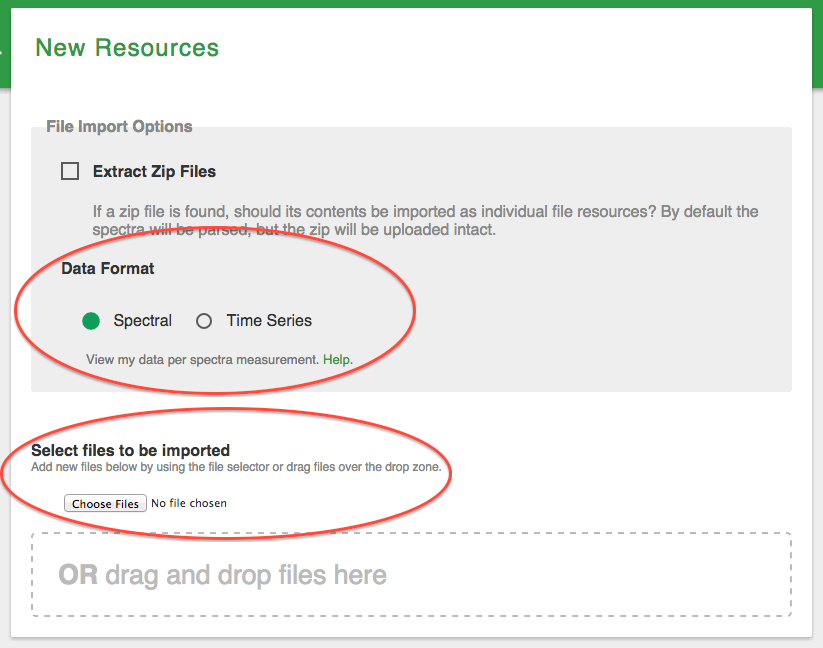
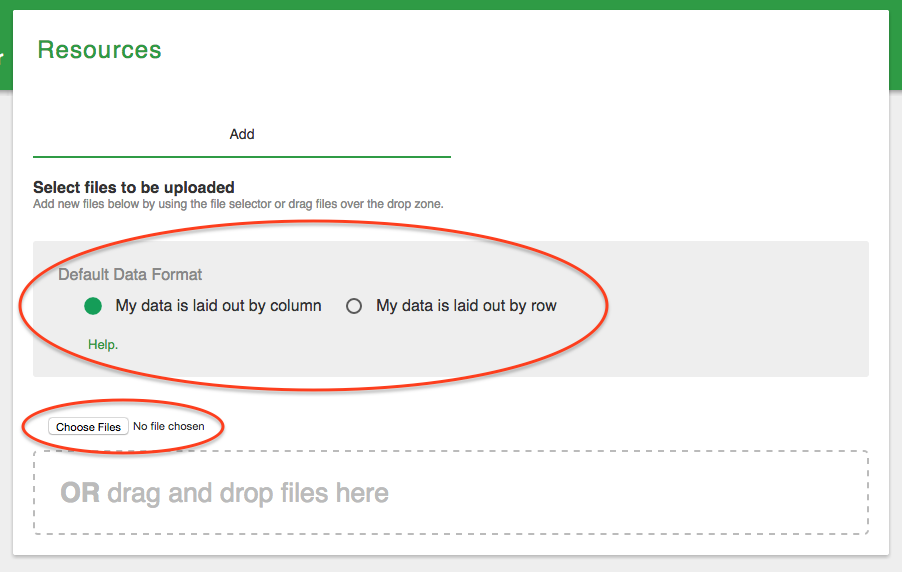
updates to tutorial

diff --git a/tutorial/walkthrough/index.html b/tutorial/walkthrough/index.html
@@ -43,8 +43,8 @@
 					<h1>EcoSIS Tutorial</h1>
 					<h3>Step by step tutorial for adding datasets to EcoSIS</h3>
 					<p>
-						<small>Presented by <a href="http://forestandwildlifeecology.wisc.edu/townsend-phil-current-faculty-profile">Phil Townsend</a> / <a href="mailto:ptownsend@wisc.edu">ptownsend@wisc.edu</a></small><br />
-						<small>Created by <a href="http://cstars.metro.ucdavis.edu/people/technical-staff/justin-merz/">Justin Merz</a> / <a href="mailto:jrmerz@ucdavis.edu">jrmerz@ucdavis.edu</a></small>
+						<small>PI: <a href="http://forestandwildlifeecology.wisc.edu/townsend-phil-current-faculty-profile">Phil Townsend</a> / <a href="mailto:ptownsend@wisc.edu">ptownsend@wisc.edu</a></small><br />
+						<small>Developer: <a href="http://cstars.metro.ucdavis.edu/people/technical-staff/justin-merz/">Justin Merz</a> / <a href="mailto:jrmerz@ucdavis.edu">jrmerz@ucdavis.edu</a></small>
 					</p>
 				</section>
 
@@ -65,7 +65,8 @@
 					<section>
 						<h2>Create EcoSIS Account</h2>
 						<p>
-							First your will need to create an account at <a href="http://data.ecospectra.org" target="_blank">data.ecospectra.org</a>
+							First your will need to create an account at <a href="http://data.ecospectra.org" target="_blank">data.ecospectra.org</a> <br />
+							Or try the sandbox located at <a href="http://dev-data.ecospectra.org" target="_blank">dev-data.ecospectra.org</a>
 						</p>
 					</section>
 					<section>
@@ -121,7 +122,7 @@
 					<section>
 						<h2>Basic Information</h2>
 						<p>In the dataset editor fill out the preliminary data for your dataset including name, description, license (if any) and visibility flag.  Make sure your description gives people a brief overview of what this dataset is.</p>
-						<p>Then click 'New Resources' on the left hand navigation.  The menu item will show once you have given the dataset a valid title.</p>
+						<p>Then click  the 'Create Dataset' button at the bottom.  Once the dataset is created, click the 'add resources' link or the 'Resources' left hand menu item.</p>
 					</section>
 					<section>
 						<img src="ss/addDataset.png">
@@ -131,15 +132,15 @@
 				<section>
 					<section>
 						<h2>Data Formats</h2>
-						<p>EcoSIS utilizes user-defined schema and recommends names for certain metadata attributes. EcoSIS uses the format of <b>your</b> files, with some guidance, to figure out your dataset's scheme.</p>
+						<p>EcoSIS utilizes user-defined schema and recommends names for certain metadata attributes. EcoSIS uses the format of <b style="color:orange">your</b> files, with some guidance, to figure out your dataset's scheme.</p>
 						
 					</section>
 					<section>
 						<p>EcoSIS expects data to be uploaded with each measurement either:</p>
 
 						<ul>
-							<li><b>In a single row -</b> where the first column is your attribute name and the proceeding columns are the data values, including spectra</b></li>
-							<li><b>In a single column -</b> where the first row is your attribute name and the proceeding rows are data values, including</b></li>
+							<li><b style="color:orange">In a single row -</b> where the first column is your attribute name and the proceeding columns are the data values, including spectra</b></li>
+							<li><b style="color:orange">In a single column -</b> where the first row is your attribute name and the proceeding rows are data values, including</b></li>
 						</ul>
 
 						<table style="width:100%; text-align:center">
@@ -158,18 +159,19 @@
 						<p style="font-size:70%;margin-top:20px;color:#888">Note: wavelengths are still considered to be an attribute name.</p>
 					</section>
 					<section>
-						<p>You can add <b>additional</b>/<b>optional</b> formatting to your files to specify type (data vs metadata) if you are providing both in the same file.  You can also specify global metadata for a file.</p>
+						<p>You can add <b style="color:orange">additional/optional</b> formatting to your files to specify attribute type (data vs metadata), units and global metadata for a file.</p>
 
 						<ul style="font-size:70%;margin-top:20px">
-							<li>Adding the row break between the two bottom tables helps define your schema by telling the importer your attribute types.  The middle table will be set as type 'metadata' while the bottom table as type 'data'.  If you don't use the break you will be given a chance to manually define attributes after the file has been added.</li>
-							<li>At the top of a file columns A and B can be used to define global metadata for the file with Column A being the attribute name and Column B being the attribute value.</li>
+							<li>At the top of a file columns A and B can be used to define global metadata for the file with Column A being the attribute name and Column B being the attribute value.  This metadata will be applied to every spectra in the file</li>
+							<li>After the attribute name, you can add units in ().  Ex: Steam Biomas (tha)</li>
+							<li>Adding the '__d' postfix to your attribute name will tell the parser the attribute should be considered as data.  Ex: NDVI__d</li>
 						</ul>
 
 						<img src="ss/formatSpecial.png">
 					</section>
 
 					<section>
-						<p>Finally, regardless of table format, only assign numeric attribute names to wavelengths. Data following any attribute name that is numeric will always be considered spectral data.</p>
+						<p>Finally, regardless of any formatting, only assign numeric attribute names to wavelengths. Data following any attribute name that is numeric will always be considered spectral data.</p>
 
 						<img src="ss/formatWavelength.png">
 					</section>
@@ -178,7 +180,7 @@
 				<section>
 					<section>
 						<h2>Add Resource Files</h2>
-						<p>Select which format your files will be provided in.  Spectral (by column) where your wavelengths are provided in Column A or Time Series (by row) where your attribute names are provided in row 1.  Then select the files you wish to upload by clicking the file selector next to 'Select File' or by dragging and dropping the files over the 'Drop files here' box.</p>
+						<p>Select which format your files will be provided in (By Column or By Row).  Then select the files you wish to upload by clicking the file selector next to 'Select File' or by dragging and dropping the files over the 'Drop files here' box.</p>
 						<p>Sample spectra and metadata files can be downloaded by clicking <a href="/demo_data.xlsx">here</a> and <a href="/demo_metadata.xlsx">here</a> (recommended).
 					</section>
 					<section>
@@ -189,7 +191,7 @@
 				<section>
 					<section>
 						<h2>Configure Datasheets</h2>
-						<p>After the files have finished parsing you will be redirected to the 'Configure Datasheets' tab in the 'New Resources' page.  Here you can see how the importer interpreted your files.</p>
+						<p>After the files have finished uploaded and being parsed by the EcoSIS you will be redirected to the 'Current' tab in the 'Resources' page.  Here you can see how the importer interpreted your files.  Click 'Details' to see a brief overview.</p>
 						<p style="margin-top:20px">It's very important to look over your files and make sure everything is correct. Pay special attention to joinable metadata files as you will always need to mark these files and define how the metadata is to be joined with the rest of your data.</p>
 					</section>
 					<section>

diff --git a/tutorial/index.html b/tutorial/index.html
@@ -1,12 +1,12 @@
 <html>
 <head>
-	<title>Ecosis Tutorial</title>
+	<title>EcoSIS Tutorials</title>
 	<link rel="stylesheet" href="//maxcdn.bootstrapcdn.com/bootstrap/3.2.0/css/bootstrap.min.css">
 	<link rel="stylesheet" href="//maxcdn.bootstrapcdn.com/bootstrap/3.2.0/css/bootstrap-theme.min.css">
 </head>
 <body style="padding:20px">
 
-<h1 class="page-header">Ecosis Tutorial</h1>
+<h1 class="page-header">EcoSIS Tutorials</h1>
 
 <h2>Screencast</h2>
 <div class="well" style="text-align:center">
@@ -22,6 +22,15 @@
 <div class="well" style="text-align:center">
 	<a href="demo_data.xlsx">Demo Spectra</a><br />
 	<a href="demo_metadata.xlsx">Demo Metadata</a>
+</div>
+
+<h2>Servers</h2>
+<div class="well" style="text-align:center">
+    <a href="http://ecospectra.org" target="_blank">EcoSIS Spectral Library</a><br />
+    <a href="http://data.ecospectra.org" target="_blank">EcoSIS Data Management</a><br />
+    <h4>Sandbox (Dev Servers)</h4>
+    <a href="http://dev-data.ecospectra.org" target="_blank">EcoSIS Data Sandbox</a><br />
+    <a href="http://dev-search.ecospectra.org" target="_blank">EcoSIS Library Sandbox</a><br />
 </div>
 
 </body>

diff --git a/spectra-importer/Gruntfile.js b/spectra-importer/Gruntfile.js
@@ -123,6 +123,13 @@ module.exports = function (grunt) {
                     stderr: true
                 },
                 command: 'node server'
+            },
+            'tutorial-server' : {
+                options: {
+                    stdout: true,
+                    stderr: true
+                },
+                command: 'node server --tutorial'
             }
         },
 
@@ -159,6 +166,10 @@ module.exports = function (grunt) {
     grunt.registerTask('build-server', [
         'build',
         'shell:build-server'
+    ]);
+
+    grunt.registerTask('tutorial-server', [
+        'shell:tutorial-server'
     ]);
 
 };

diff --git a/spectra-importer/server.js b/spectra-importer/server.js
@@ -4,6 +4,7 @@ var app = express();
 var dir = __dirname + '/dist';
 process.argv.forEach(function(val){
     if( val == '--dev' ) dir = __dirname + '/app';
+    else if( val == '--tutorial' ) dir = __dirname + '/../tutorial';
 });
 
 app.use(express.static(dir));
